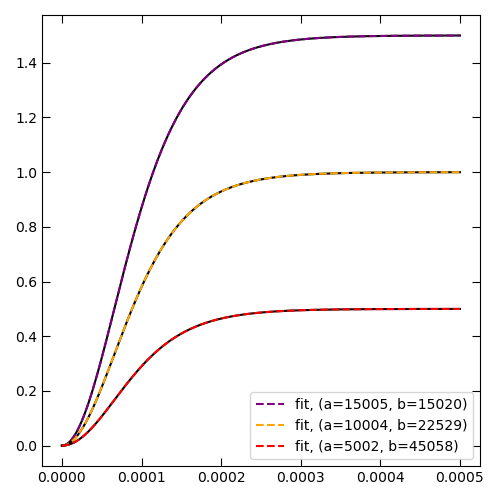
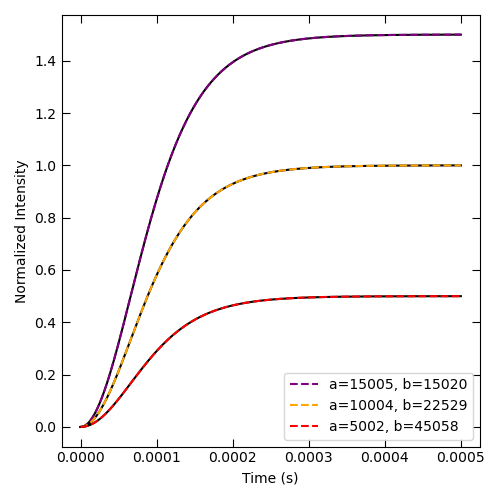
update some functions to be less reliant on the specific names of fitting variables

diff --git a/insights.py b/insights.py
@@ -1,7 +1,6 @@
 """Script to show how the plots in the supplementary information were made."""
 import matplotlib.pyplot as plt
 import numpy as np
-from tqdm import tqdm
 from fitting import find_best_fit_params
 from de_utilities import triplet_decay_solution
 
@@ -10,13 +9,8 @@ def main():
     Make all the plots :)
 
     Variable name explanations: equation 1 from the paper is
-    d[A_T]/dt = Kk_{TET}[A_S]e^{-(k_{3S}+k_{TET}[A_S])t} - k_3[A_T] - 2k_{TTA}[A_T]^2
-    * k_ph = k_{3S}+k_{TET}[A_S]
-    * k_2_conc_a = Kk_{TET}[A_S]
-    * k_3 = k_3
-    * k_4 = k_{TTA}
-    * intensity = epsilon*k_{TTA}*[A_T]^2
-    * time = t
+    d[A_T]/dt = Kk_{TET}[A_S]e^{-(k_{3S}+k_{TET}[A_S])t}
+                - k_3[A_T] - 2k_{TTA}[A_T]^2
 
     In the first analytically solvable case, dy/dt=a-by^2,
     setting the source term to a constant means
@@ -28,36 +22,44 @@ def main():
     In the second, y = Kk_{TET}[A_S] / (k_{3S}+k_{TET}[A_S] - k_3)
                        * (e^{-k_3 t} - e^{-(k_3+k_{TET}[A_S]) t})
                      = k_2_conc_a/(k_ph-k_3) * (e^{-k_3 t} - e^{-k_ph t})
-
     """
 
     # pick arbitrary values for a and b
     a = 10000
     b = 10000
+
+    epsilon=1/5000  # has to be tweaked manually, but this value works for the plots here
+
+    # get some times for the x axis
     t_min = 0
     t_max = 0.5e-3
-    epsilon=1/5000  # has to be tweaked manually, but this value works for the plots here
-    # get some times for the x axis
     times = np.linspace(t_min, t_max, 1000)
+
     # analytical values using a and b
     analytical_y = np.sqrt(a/b) * np.tanh(np.sqrt(a*b)*times)
+
     # fit result
     analytical_intensity = analytical_y**2  # well epsilon * k_4 * this but we'll normalize
-    k_2_conc_a, k_ph, k_3, k_4 = find_best_fit_params(
+    fit_params = find_best_fit_params(
         times, analytical_intensity,
         initial_guesses=[a, 0, 0, b/2], epsilon=epsilon)
+
+    print("The fit found the following values:", fit_params)
+
     # find fit_a and fit_b from the best-fit parameters
-    fit_a = k_2_conc_a
-    fit_b = 2 * k_4
-    fit_intensity = triplet_decay_solution(epsilon=epsilon)(times, k_2_conc_a, k_ph, k_3, k_4)
+    fit_a = fit_params[0]
+    fit_b = 2 * fit_params[3]
+    #!pylint disable=W1114
+    fit_intensity = triplet_decay_solution(epsilon)(times, *fit_params)
     # plot one curve & fit (Figure S1)
     # note the normalization since y is only proportional to intensity
     fig = plt.figure(figsize=(5,5))
     ax = fig.gca()
-    ax.plot(times, analytical_intensity/max(analytical_intensity), color="k", linestyle="-",
-            label="analytical")
-    ax.plot(times, fit_intensity/max(fit_intensity), color="orange", linestyle="--",
-            label=f"fit, (a={int(fit_a)}, b={int(fit_b)})")
+    ax.plot(times, analytical_intensity/max(analytical_intensity),
+            color="k", linestyle="-", label="analytical")
+    ax.plot(times, fit_intensity/max(fit_intensity),
+            color="orange", linestyle="--",
+            label=f"fit, (a={round(fit_a)}, b={round(fit_b)})")
     ax.set_xlabel("Time (s)")
     ax.set_ylabel("Normalized Intensity")
     ax.tick_params(direction='in', length=6, top=True, right=True)
@@ -72,19 +74,23 @@ def main():
     colors = ["purple", "orange", "red"]
     for factor, color in zip(factors, colors):
         analytical_intensity_i = factor * analytical_intensity
-        k_2_conc_a, k_ph, k_3, k_4 = find_best_fit_params(
+        fit_params = find_best_fit_params(
             times, analytical_intensity_i,
             initial_guesses=[a, 0, 0, b/2], epsilon=epsilon)
         # find fit_a and fit_b from the best-fit parameters
-        fit_a = k_2_conc_a
-        fit_b = 2 * k_4
+        fit_a = fit_params[0]
+        fit_b = 2 * fit_params[3]
         print(fit_a * fit_b)
-        fit_intensity_i = triplet_decay_solution(epsilon=epsilon)(times, k_2_conc_a, k_ph, k_3, k_4)
+        fit_intensity_i = triplet_decay_solution(epsilon=epsilon)(
+            times, *fit_params)
         ax.plot(times, analytical_intensity_i, color="k", linestyle="-")
         # normalize the fits so they line up with the analytical things
         ax.plot(times, fit_intensity_i/np.max(fit_intensity_i)*np.max(analytical_intensity_i),
                 color=color, linestyle="--",
-                label=f"fit, (a={round(fit_a)}, b={round(fit_b)})")
+                label=f"a={round(fit_a)}, b={round(fit_b)}")
+    ax.set_xlabel("Time (s)")
+    ax.set_ylabel("Normalized Intensity")
+    ax.tick_params(direction='in', length=6, top=True, right=True)
     ax.legend(loc="best")
     fig.tight_layout()
     plt.savefig("images/S2.png")
@@ -113,7 +119,6 @@ def main():
     # plt.savefig(f"images/ab_products_{start}_{end}_{num}.png")
     # ax.clear()
 
-
     # sub-case 2 where y = k_2_conc_a/(k_ph-k_3) * (e^{-k_3 t} - e^{-k_ph t}) (Figure S3)
     t_min = 0
     t_max = 1e-3
@@ -121,14 +126,14 @@ def main():
     k_2_conc_a = 30000
     k_ph = 10000
     k_3 = 20000
-    analytical_y_case2 = k_2_conc_a/(k_ph-k_3) * (np.exp(-k_3 * times) - np.exp(-k_ph * times))
+    analytical_y_case2 = k_2_conc_a/(k_ph-k_3) * (
+        np.exp(-k_3 * times) - np.exp(-k_ph * times))
     analytical_intensity_case2 = analytical_y_case2**2
-    k_2_conc_a_fit, k_ph_fit, k_3_fit, k_4_fit = find_best_fit_params(
+    fit_params = find_best_fit_params(
         times, analytical_intensity_case2,  # if k_4 is zero shouldn't intensity = 0?
         initial_guesses=[k_2_conc_a, k_ph, k_3, 1])
-    # commented for now since it doesn't actually seem to converge
     fit_intensity_case2 = triplet_decay_solution(epsilon=epsilon)(
-        times, k_2_conc_a_fit, k_ph_fit, k_3_fit, k_4_fit)
+        times, *fit_params)
     ax.plot(times, analytical_intensity_case2/np.max(analytical_intensity_case2),
             color="k", linestyle="-", label="analytical")
     ax.plot(times, fit_intensity_case2/np.max(fit_intensity_case2),
@@ -136,6 +141,9 @@ def main():
     ax.plot(times, np.abs(analytical_intensity_case2/np.max(analytical_intensity_case2)
                           - fit_intensity_case2/np.max(fit_intensity_case2)),
             color="green", linestyle="-", label="|difference|")
+    ax.set_xlabel("Time (s)")
+    ax.set_ylabel("Normalized Intensity")
+    ax.tick_params(direction='in', length=6, top=True, right=True)
     ax.legend(loc="best")
     fig.tight_layout()
     plt.savefig("images/S3.png")

diff --git a/fitting.py b/fitting.py
@@ -3,16 +3,18 @@ import numpy as np
 from scipy.optimize import curve_fit
 from de_utilities import triplet_decay_solution
 
-def find_best_fit_params(times: np.ndarray, intensities: np.ndarray,
-                         initial_guesses: list, epsilon: float=1) -> tuple[float]:
+def find_best_fit_params(times: np.ndarray,
+                         intensities: np.ndarray,
+                         initial_guesses: list[float],
+                         epsilon: float=1) -> list[float]:
     """
-    Given time and intensity values, find k_2_conc_a, k_3, k_4, and k_ph.
+    Given time and intensity values,
+    find parameters in the function: k_tta & such.
+    Wrapper for curve_fit.
     """
 
     result = curve_fit(
-        triplet_decay_solution(epsilon), times, intensities, p0=initial_guesses,
-        bounds=([0, 0, 0, 0], [np.inf, np.inf, np.inf, np.inf]))
-    popt = result[0]
-    k_2_conc_a, k_3, k_4, k_ph = popt
-
-    return k_2_conc_a, k_3, k_4, k_ph
+        triplet_decay_solution(epsilon), times, intensities,
+        p0=initial_guesses,
+        bounds=([0]*len(initial_guesses), [np.inf]*len(initial_guesses)))
+    return result[0]

diff --git a/de_utilities.py b/de_utilities.py
@@ -66,7 +66,7 @@ def runge_kutta(diff_equation: Callable,
 
     return intensity
 
-def triplet_decay_solution(epsilon: float=10,
+def triplet_decay_solution(epsilon,
                            time_0: float=0,
                            intensity_0: float=0) -> np.ndarray:
     """Solve for the solution to the triplet decay, using RK."""
